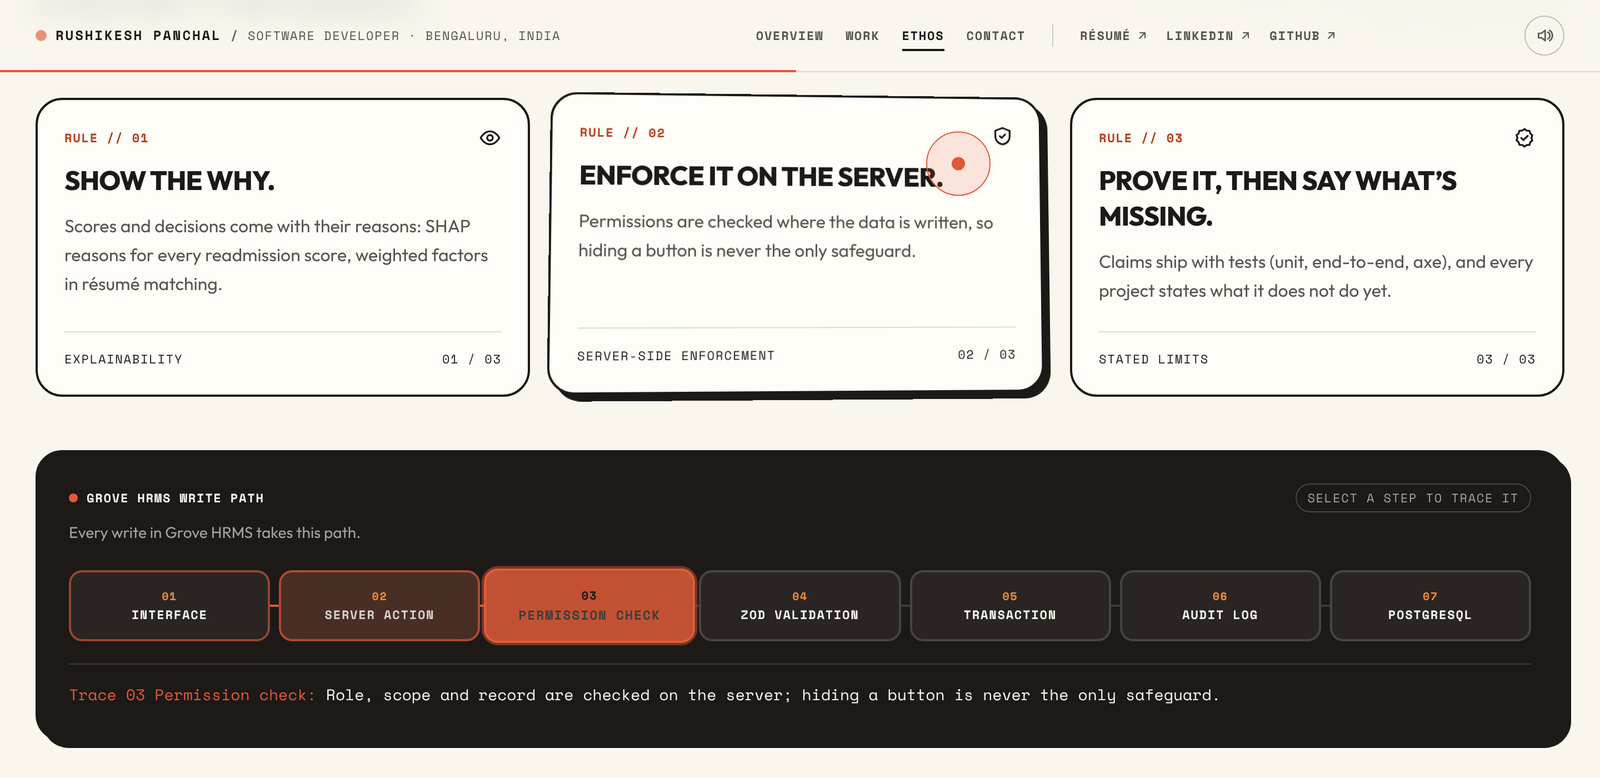
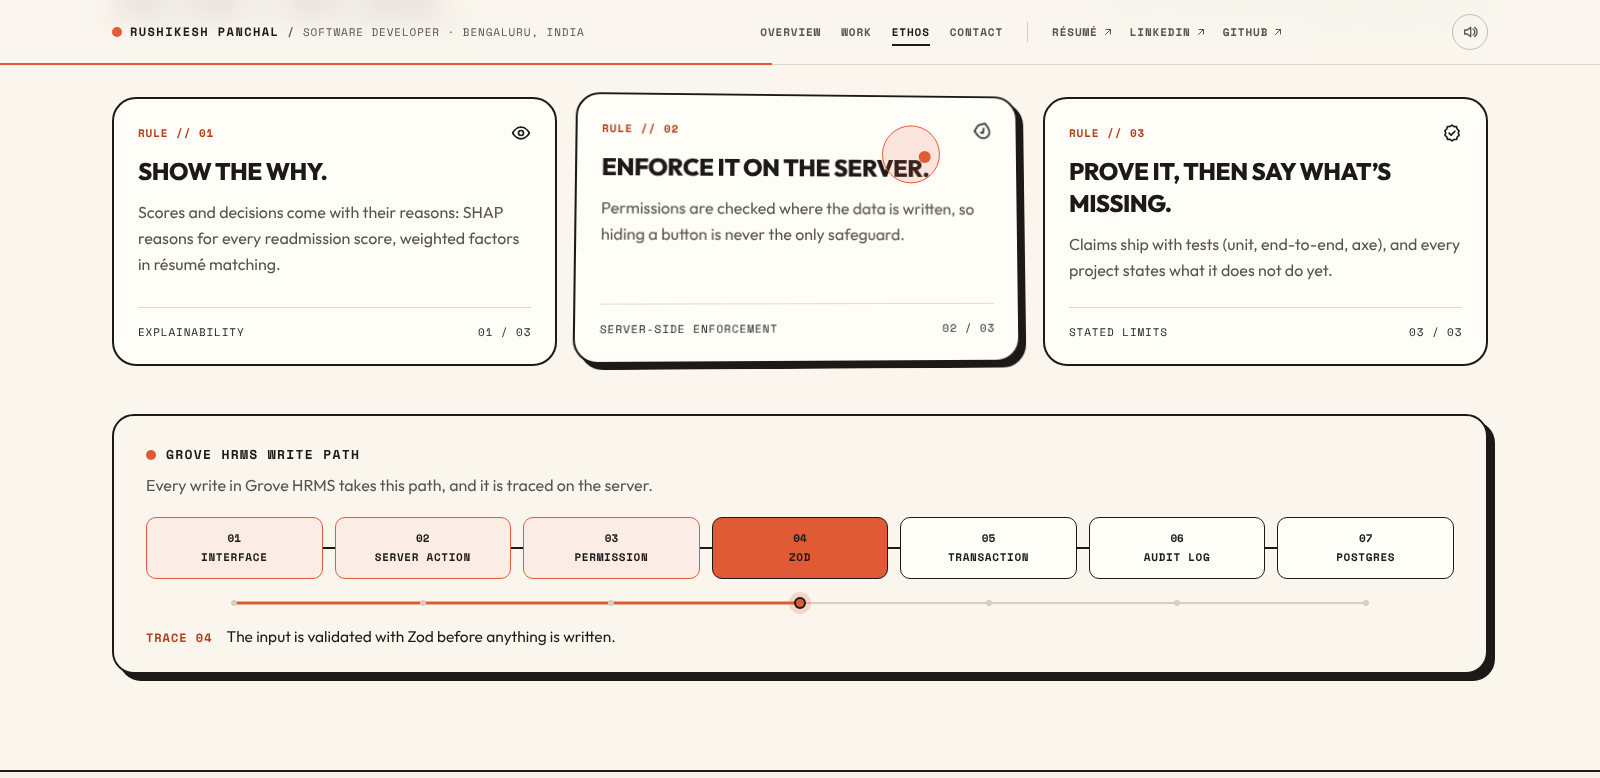
Refresh the README Ethos screenshot for the light write path
- docs/images/desktop-ethos.png: retaken at 1600×778 with the middle
  principle card tilting toward the cursor and the new light write-path
  panel mid-trace (step 04 Zod lit, its trace line showing).
- README: alt text updated; the "sweeping pipeline beam" mention is
  replaced by a line on the README-card write path.

Claude-Session: https://claude.ai/code/session_012uxi6W5UYWaV5RtQvdCEGA

diff --git a/README.md b/README.md
@@ -53,7 +53,7 @@ export drives phones. Every section moves, and none of it needs JavaScript to be
     <td align="center"><sub>Phone: hero, project tabs and a toast</sub></td>
   </tr>
   <tr>
-    <td colspan="2"><img src="docs/images/desktop-ethos.png" alt="Desktop How I work section: the middle principle card tilted in 3D toward the cursor, above the dark write-path panel tracing step 03 Permission check" /></td>
+    <td colspan="2"><img src="docs/images/desktop-ethos.png" alt="Desktop How I work section: the middle principle card tilted in 3D toward the cursor, above the light Grove HRMS write-path panel with step 04 Zod lit and its trace line" /></td>
   </tr>
   <tr>
     <td colspan="2" align="center"><sub>3D tilt cards that follow the cursor, and the write path tracing itself step by step</sub></td>
@@ -131,9 +131,12 @@ flowchart LR
   the inspector's cross-fade and the RBAC table's dip, all with no animation library.
 - **Every Stitch interaction is in.** A custom cursor (dot plus lagging ring) that grows over
   anything clickable, kinetic hero letters, magnetic buttons, 3D tilt cards, shimmering stat
-  cards, tech-tag tooltips, a sweeping pipeline beam, tactile press ripples with optional sound
+  cards, tech-tag tooltips, tactile press ripples with optional sound
   blips (header toggle), and toasts. They are wired once, by event delegation, in
   `src/motion/Effects.tsx`.
+- **The write path matches the profile README card.** The same light panel and 11.2 s trace
+  (`src/motion/write-path-timeline.ts`): the token rides the rail, each step pops and settles,
+  and the write commits. Click or tap a step to hold it there.
 - **Content never waits on animation.** Everything is in the server HTML. Reveals only apply
   when an inline script has run, and nothing moves or starts hidden under
   `prefers-reduced-motion`. Tests check both cases, plus a no-JavaScript run.
